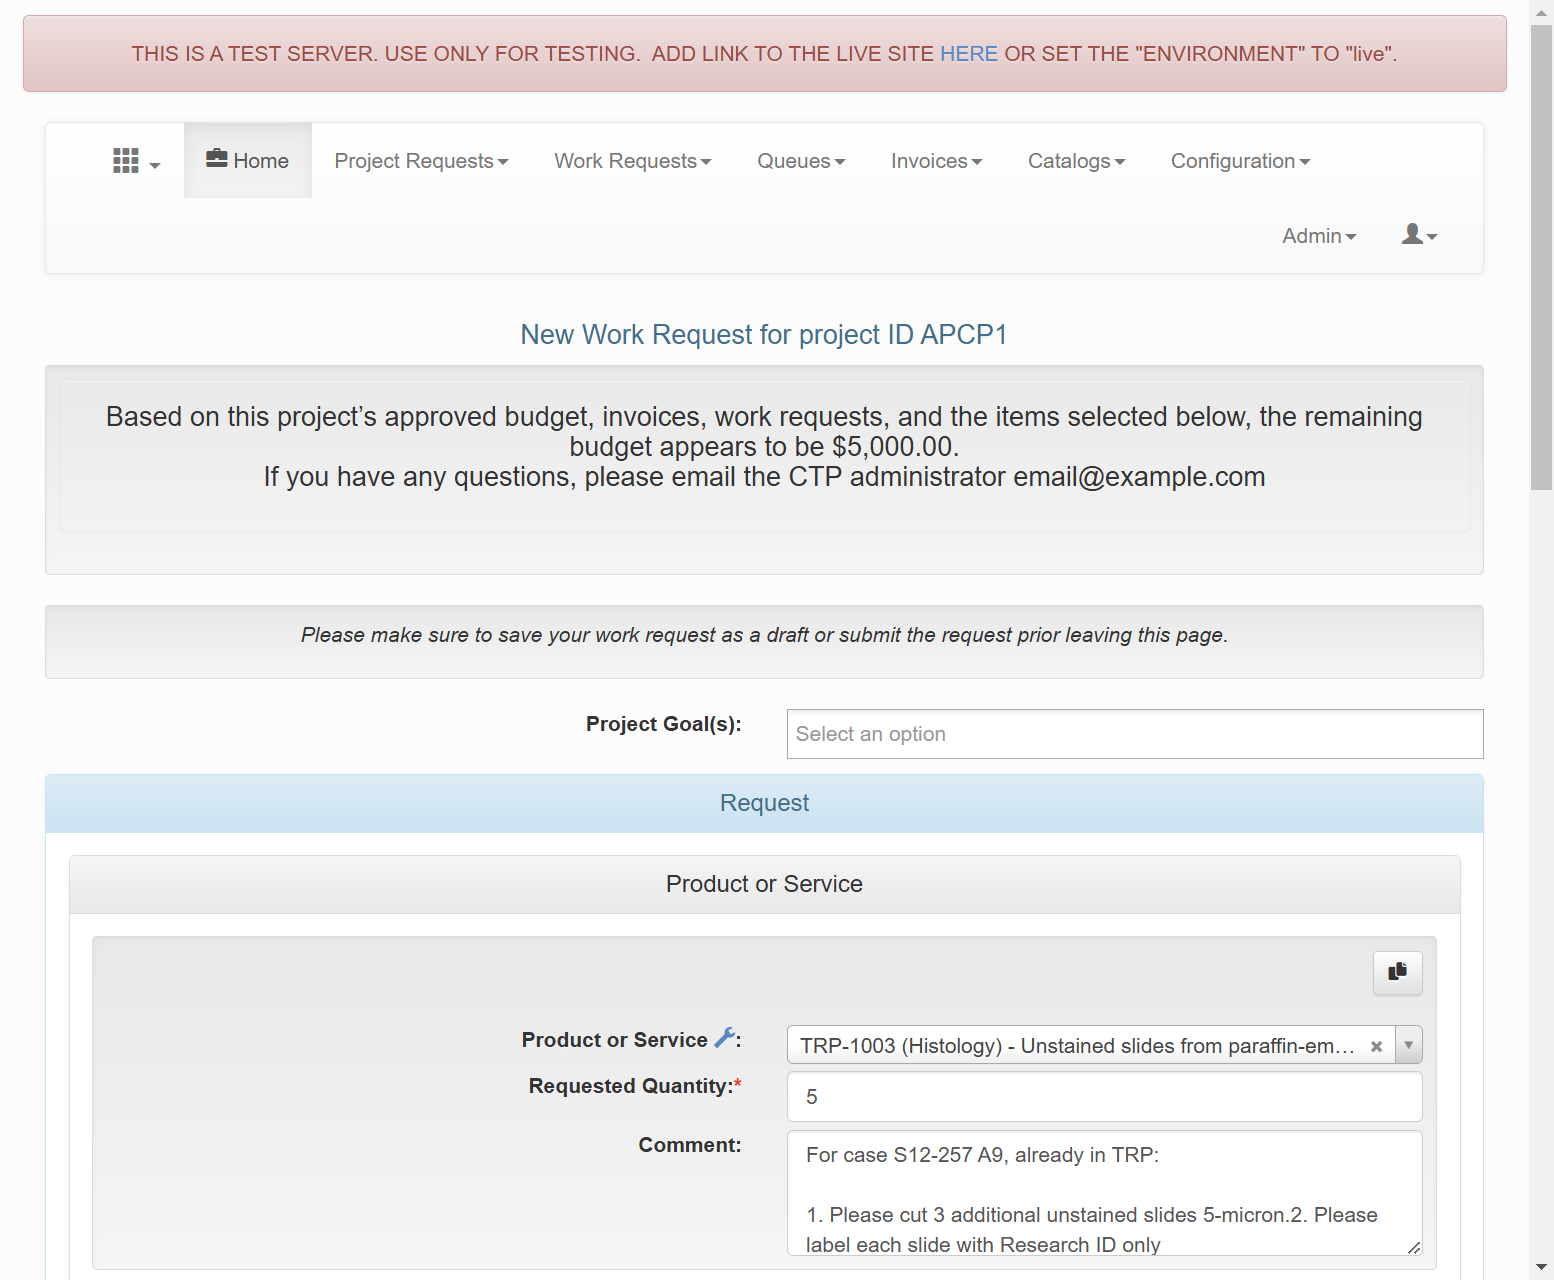
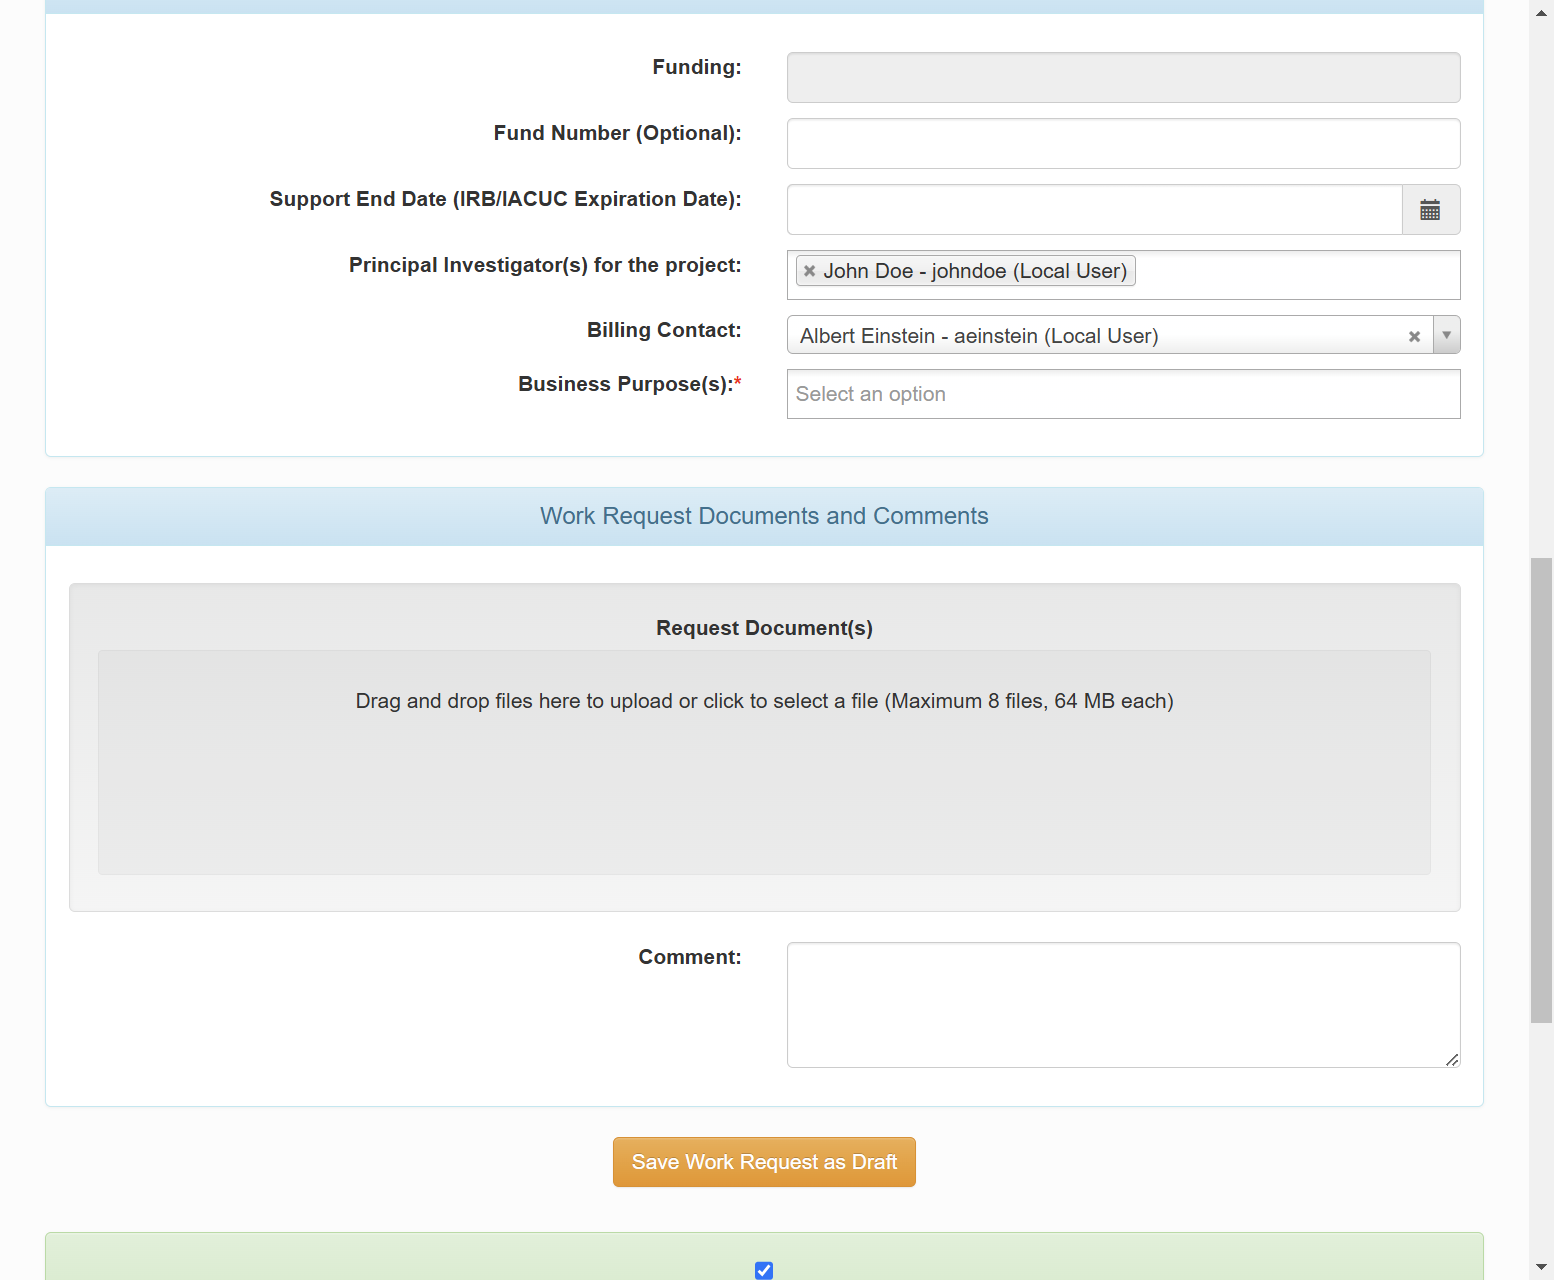
working on trp work request

diff --git a/orderflex/src/App/DemoDbBundle/Util/DemoDbUtil.php b/orderflex/src/App/DemoDbBundle/Util/DemoDbUtil.php
@@ -460,12 +460,23 @@ class DemoDbUtil {
 
         $client->takeScreenshot('demoDb/test_product-'.$productId.'.png');
 
+        //businessPurposes
+        $client->executeScript("$('#s2id_oleg_translationalresearchbundle_request_businessPurposes').val('1')");
+        $client->executeScript('$("#s2id_oleg_translationalresearchbundle_request_businessPurposes")[0].scrollIntoView(false);');
+
         //Check #confirmationSubmit
         $client->executeScript("$('#confirmationSubmit').prop('checked', true)");
+        $client->executeScript('$("#confirmationSubmit")[0].scrollIntoView(false);');
         $client->takeScreenshot('demoDb/test_product-confirmationSubmit-'.$productId.'.png');
 
         //Click 'Complete Submission'
         //$client->executeScript("$('#oleg_translationalresearchbundle_request_saveAsComplete').click()");
+        //oleg_translationalresearchbundle_request_saveAsComplete
+        $form = $crawler->filter('#oleg_translationalresearchbundle_request_saveAsComplete')->form();
+        $client->submit($form);
+        $client->executeScript('$("#oleg_translationalresearchbundle_request_saveAsComplete")[0].scrollIntoView(false);');
+        $client->executeScript('$("#oleg_translationalresearchbundle_request_saveAsComplete")[0].scrollIntoView();');
+        $client->takeScreenshot('demoDb/test_request-saveAsComplete-'.$productId.'.png');
     }
 
     public function getCurrentUrlId($client) {
